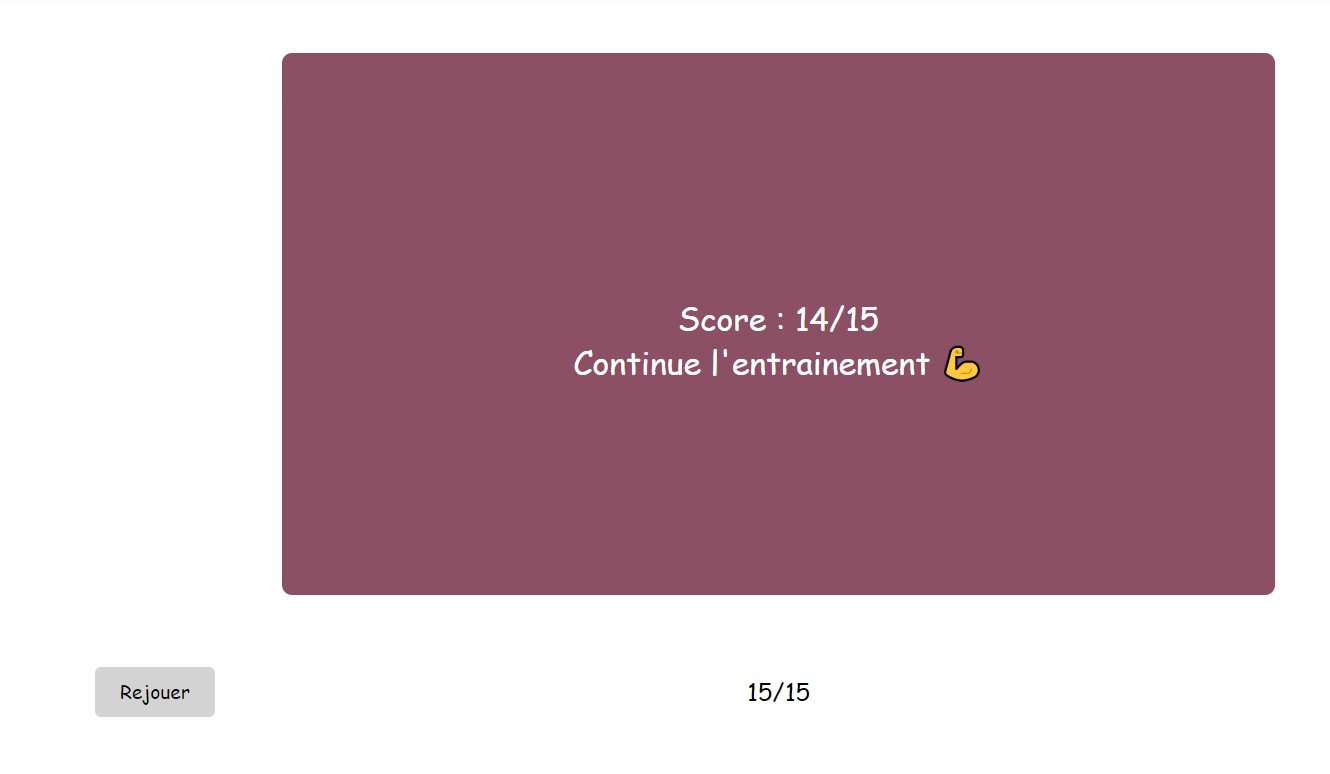
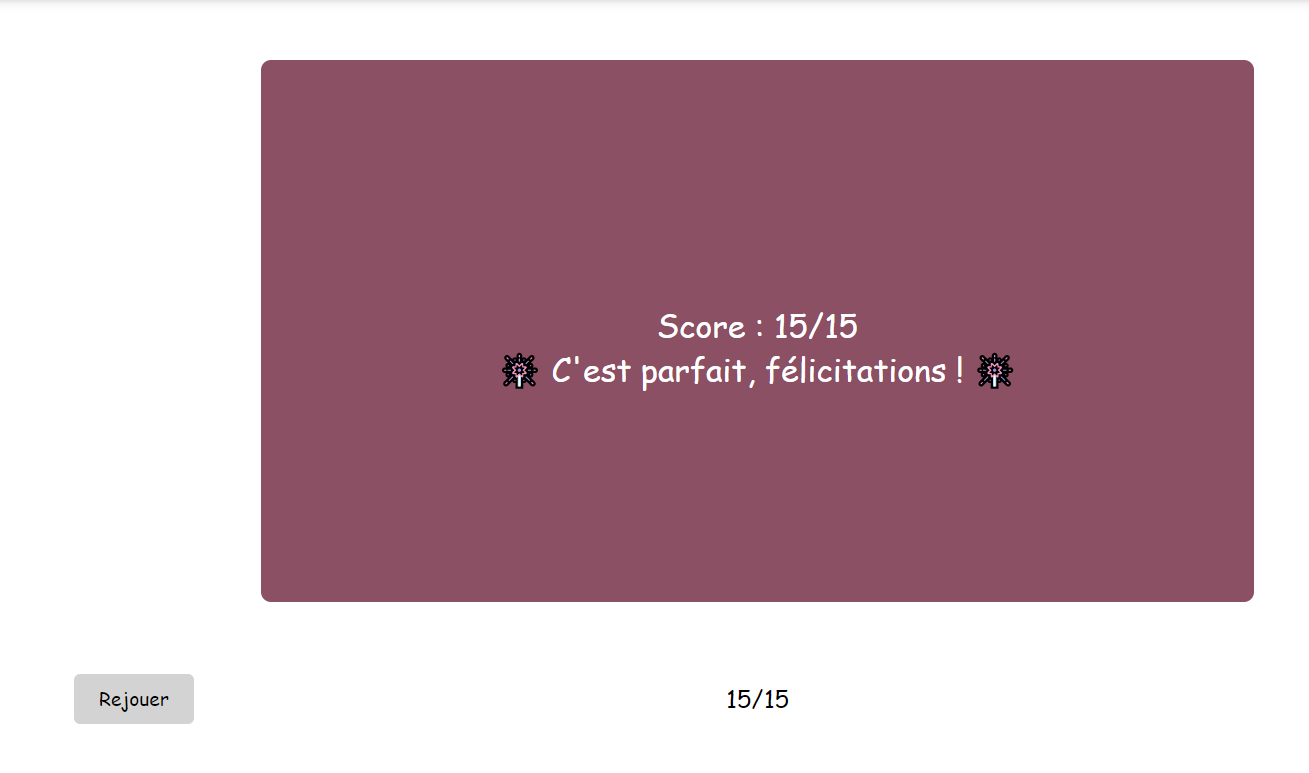
update Aide css

diff --git a/projet_lite/html/aide.html b/projet_lite/html/aide.html
@@ -23,12 +23,12 @@
 			<p>Sur cette page, vous avez le choix de cliquer sur 2 boutons qui vous redirigeront sur les pages respectives des hiraganas ou des katakanas pour les apprendre.</p>
 			<img src='../assets/aide/AideAcceuil.PNG' />
 		</div>
-		<div class="aide">
+		<div class="aide" id="aideHiragana">
 			<h1>Page Hiragana / Katakana</h1>
 			<p>Les pages Hiragana et Katakana se composent de la même manière. L'alphabet est réparti en 2 grandes parties, les syllabes simples et les syllabes additionnelles. Les syllabes additionnelles reprennent les syllabes simples en y ajoutant des tenten (〃 てんてん), le maru (〇 まる), ou des petits Ya Yu ou Yo (ゃゅょ).
 			<br />
 			<br />
-			Sur cette page vous pouvez cliquer sur un caractère afin de le visualiser en plus grand : 
+			Sur cette page vous pouvez cliquer sur un caractère afin de le visualiser en plus grand pour apprendre à l'écrire et le mémoriser : 
 			</p>
 
 			<img src='../assets/aide/AideHiragana.PNG' />
@@ -39,11 +39,11 @@
 			</p>
 			<img src='../assets/aide/AideHiragana2.PNG' />
 		</div>
-		<div class="aide">
+		<div class="aide" id="aideConfig">
 			<h1>Page de Configuration</h1>
-			<p>Une fois une leçon choisie, vous pouvez choisir de deviner la traduction, c'est-à-dire de  trouver la prononciation d'un caractère en japonais.
+			<p>Une fois une leçon choisie, vous pouvez choisir de deviner la traduction, c'est-à-dire de trouver la traduction d'un caractère en japonais.
 			<br /> 
-			Ou bien, à partir de la prononciation, de deviner le caractère qui lui correspond.
+			Ou bien, à partir de la traduction, de deviner le caractère qui lui correspond.
 			<br />
 			<br /> 
 			Lorsque vous cliquez, un nouveau choix s'offre à vous, vous pouvez cliquer sur la difficulté qui vous convient. 
@@ -58,11 +58,7 @@
 			<img src='../assets/aide/AideConfiguration.PNG' />
 		</div>
 
-
-
-
-		
-		<div class="aide">
+		<div class="aide" id="aideJeu">
 			<h1>Page du jeu</h1>
 			<p> Une fois un choix de réponse effectué, il y a : 
             <br /> 

diff --git a/projet_lite/js/jeu.js b/projet_lite/js/jeu.js
@@ -70,6 +70,8 @@ function afficheScore(){
 		elem3.innerHTML = "Tu feras mieux la prochaine fois 😉";
 	}else if(score==leconMelangee.length){
 		elem3.innerHTML = "🎆 C'est parfait, félicitations ! 🎆";
+	}else if(score>((leconMelangee.length/4)*3)){
+		elem3.innerHTML = "C'est presque parfait ! 👍";
 	}else{
 		elem3.innerHTML = "Continue l'entrainement 💪";
 	}

diff --git a/projet_lite/html/hiragana.html b/projet_lite/html/hiragana.html
@@ -13,7 +13,7 @@
 		<div class="header">
 			<a href="../index.html">Accueil</a>
 			<h1>Hiragana</h1>
-			<a href="../html/aide.html">Aide</a>
+			<a href="../html/aide.html#aideHiragana">Aide</a>
 		</div>
 		<div class="main">
 			<!--<img src="../assets/hiragana3.png">-->

diff --git a/projet_lite/html/katakana.html b/projet_lite/html/katakana.html
@@ -13,7 +13,7 @@
 		<div class="header">
 			<a href="../index.html">Accueil</a>
 			<h1>Katakana</h1>
-			<a href="../html/aide.html">Aide</a>
+			<a href="../html/aide.html#aideHiragana">Aide</a>
 		</div>
 		<div class="main">
 			<!--<img src="../assets/hiragana3.png">-->

diff --git a/projet_lite/html/configuration.html b/projet_lite/html/configuration.html
@@ -13,7 +13,7 @@
 		<div class="header">
 			<a href="../index.html">Accueil</a>
 			<h1>Configuration</h1>
-			<a href="../html/aide.html">Aide</a>
+			<a href="../html/aide.html#aideConfig">Aide</a>
 		</div>
 		<div class="main">
 			<div id="choixJeu">

diff --git a/projet_lite/html/jeu.html b/projet_lite/html/jeu.html
@@ -13,7 +13,7 @@
 		<div class="header">
 			<a href="../index.html">Accueil</a>
 			<h1>Jeu</h1>
-			<a href="../html/aide.html">Aide</a>
+			<a href="../html/aide.html#aideJeu">Aide</a>
 		</div>
 		<div class="main">
 			<div id="panel">

diff --git a/projet_lite/styles/aide.css b/projet_lite/styles/aide.css
@@ -32,6 +32,7 @@ body{
 .aide img{
     margin: 5vh;
     width: 55vh;
+    border-radius: 5px;
 }
 
 
